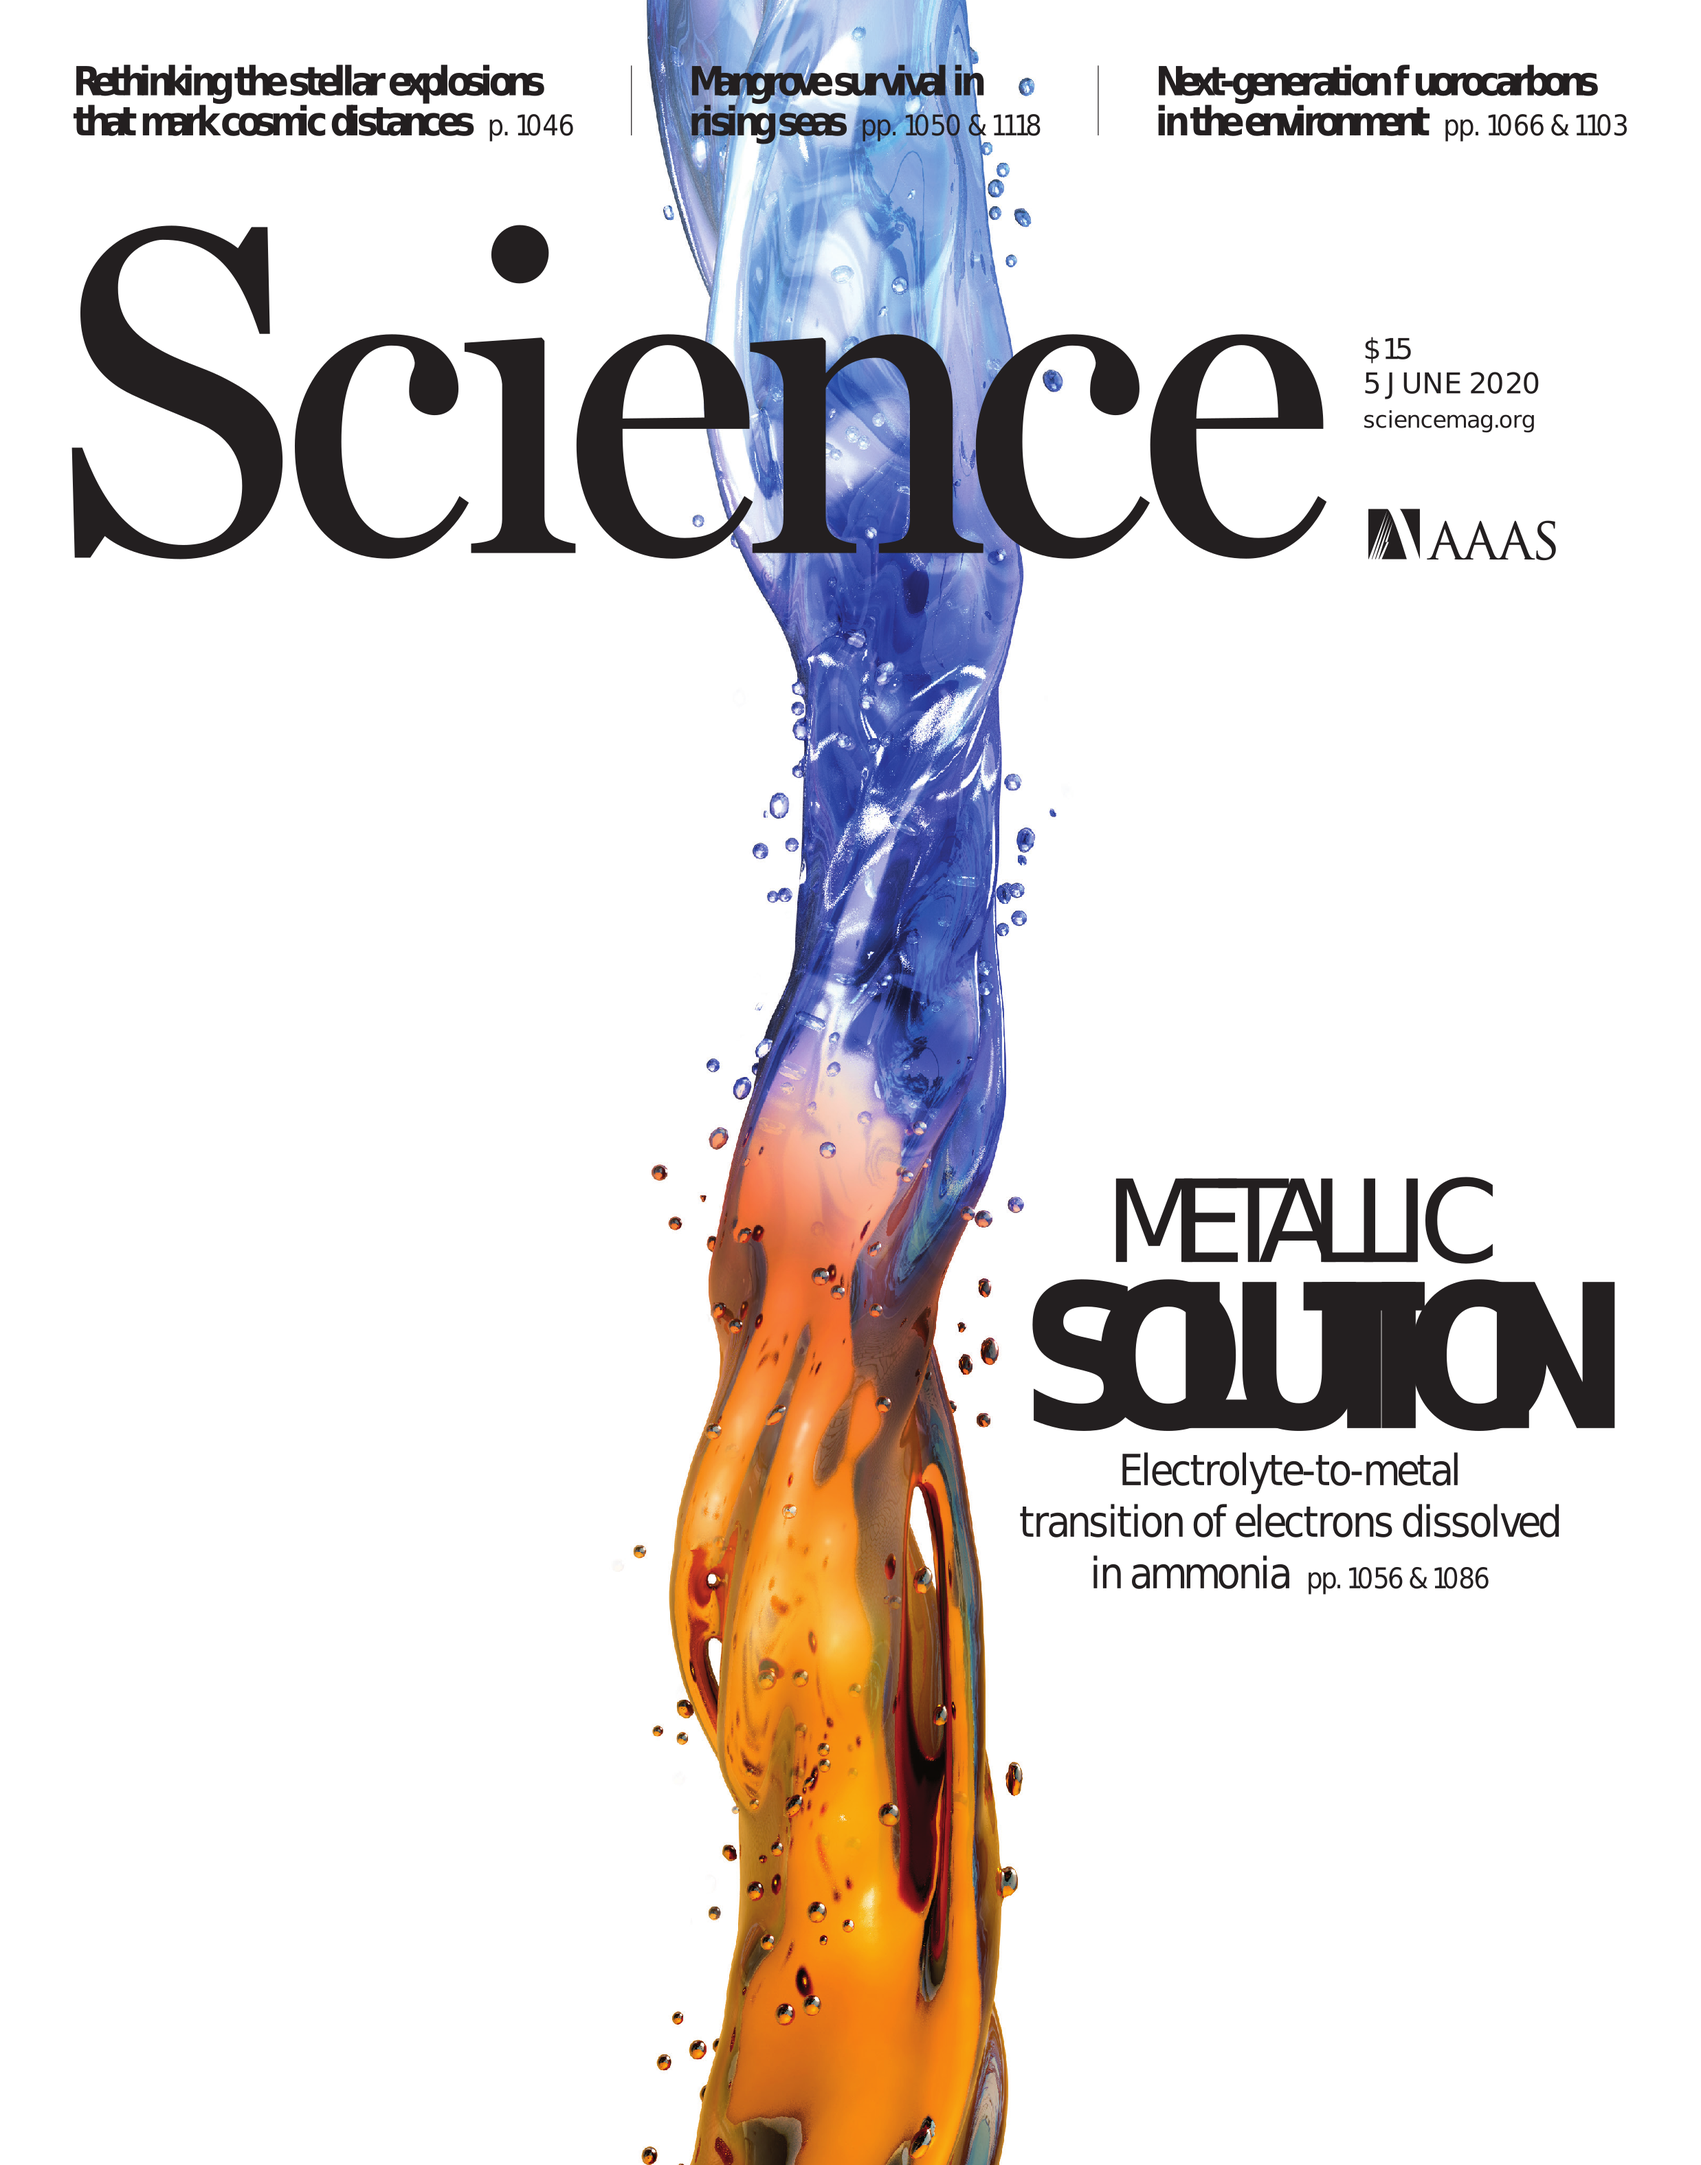
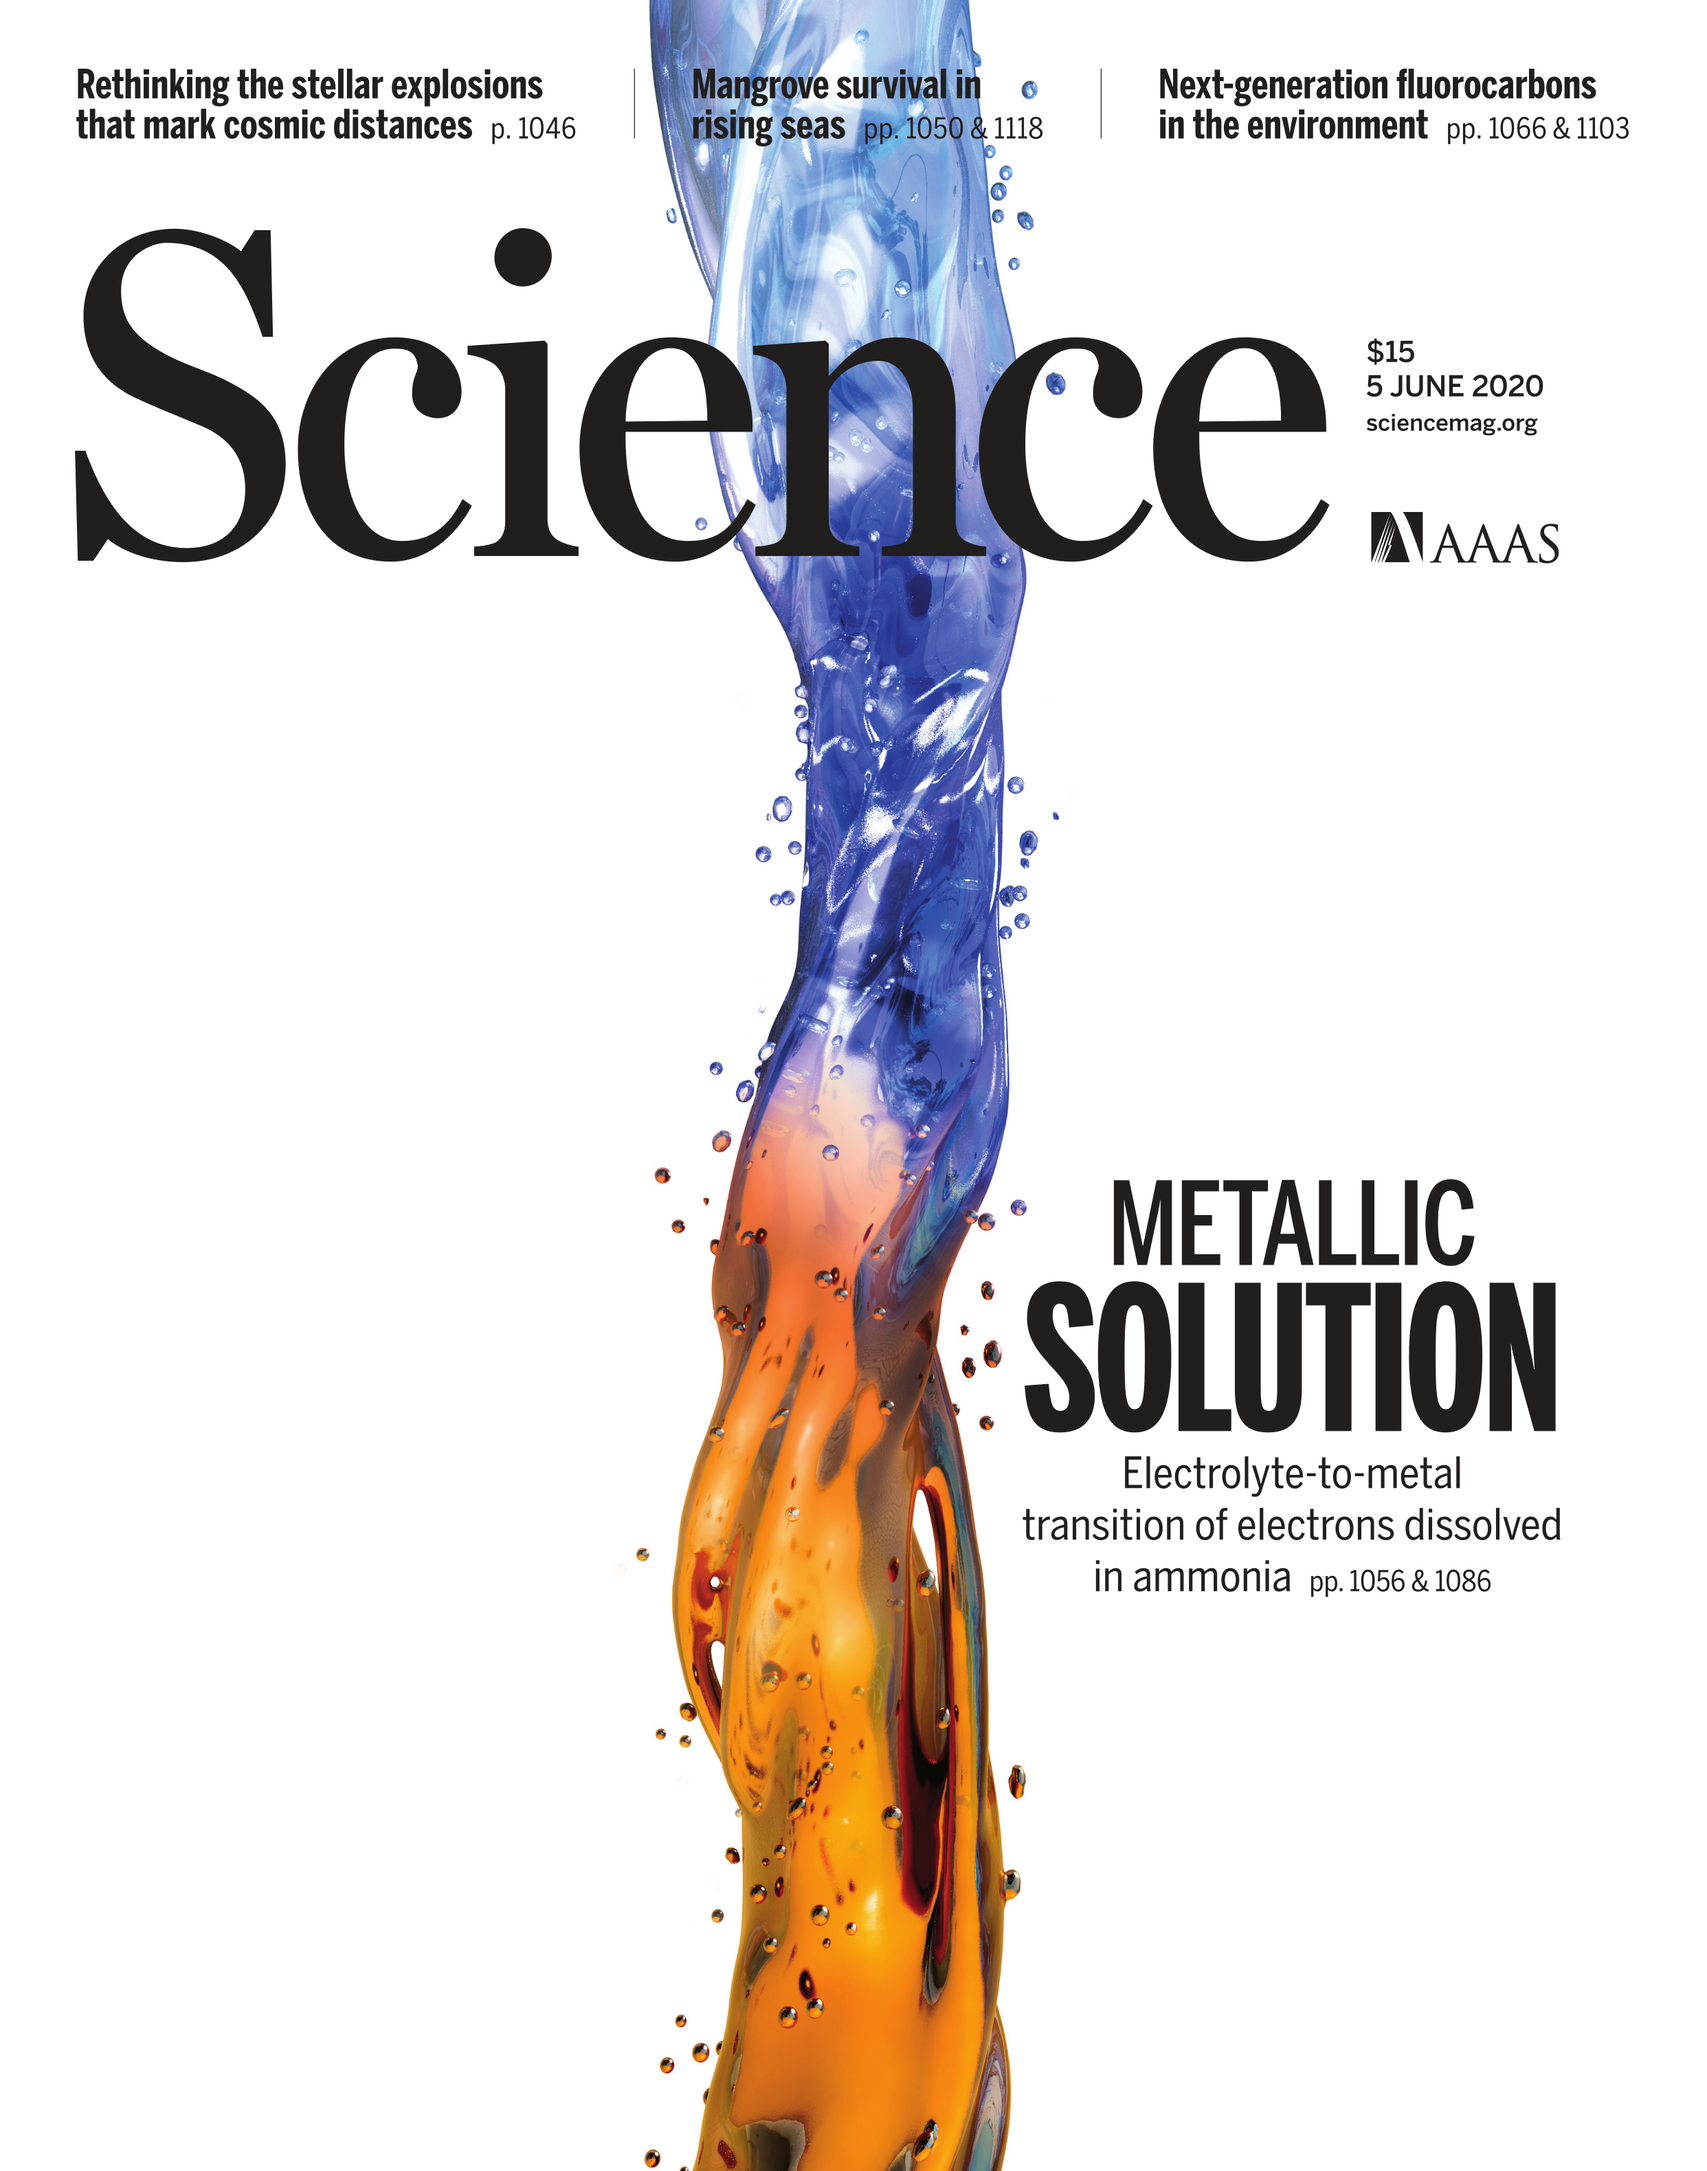
new text

diff --git a/research.html b/research.html
@@ -71,34 +71,52 @@
 	<h2 style='margin-left: 40px; font-family: Cairo;'>What and How?</h2>
 
 	<div class='text'style='margin-left: 40px;'>
-		One does not exaggerate when one says that hydrogen bonding is a crucial ingredient of life.
-		Hydrogen bonds come in many flavors giving rise to the remarkably quirky properties of water,
-		they stand behind the reason why the DNA double helix holds together and why proteins take on so many 
-		different shapes and have so many different functions.
-		At the same time, hydrogen being a very light nucleus results in significant nuclear quantum effects
-		leading to a structrual and dynamic behavior beyond the explanation offered by classical mechanics.
-		We are interested in a theoretical description of various hydrogen bonded systems at the level of atoms
-		including quantum nuclear effects.
-		Our methodology is rooted in molecular dynamics simulations&mdash;a numerical treatment of equations of motion
-		due to a system Hamiltonian resulting in a prediction of molecular behavior in the form of a trajectory through time.
-		Specifically, we approach intermolecular interactions by <i>ab initio</i> methods and include the crucial quantum
-		nuclear effects by mapping the quantum system onto a classical ring polymer abstraction through the Feynman path
-		integral formalism.
-		Such accuracy is traded off for extreme computational demands and is thus practically limited only to the smallest systems.
-		To overcome the issue, we employ a novel machine learning approach and let neural networks to do the hard work
-		for a fraction of the original cost.
+		One does not exaggerate much when one says that hydrogen bonding is crucial to life.
+		Hydrogen bonds are the culprit behind the fact that water is liquid at room temperature and that
+		biopolymers such as proteins or DNA are so structurally rich to make up a functional living 
+		organism.
+		Our research, located just between physical chemistry, theoretical physics and computational
+		science, aims at a description of structure and dynamics of various hydrogen bonded systems,
+		ranging from the most common ones such as liquid water to ones that are more exotic, at a
+		molecular level.
+		To this end, we employ a theoretical method called molecular dynamics simulation where the studied 
+		system is computationally propagated through time to obtain information on molecular properties.
+		In our work, we would typically obtain potentials that govern the behavior of molecular systems 
+		from quantum electronic structure: this is called <i>ab initio</i> molecular dynamics. While this
+		is a very accurate way how to treat molecular interactions, its inherent complexity can lead to 
+		a high computational cost. 
+		In this direction, we recently started exploring the methodology and applications of machine learning 
+		to make this task a little easier.
+		In addition to quantum electrons, in our research we address nuclear quantum effects&mdash;a deviation
+		of molecular properties from classical expectations due to the quantum nature of nuclei&mdash;
+		through the imaginary time path integral formalism.
 	</div>
 
 	<h2 style='margin-left: 40px; font-family: Cairo;'>Solvated Electrons and Their Applications</h2>
 
         <div class='text'style='margin-left: 40px;'>
-		Lorem ipsum - some text about solvated electrons
+		Liquid ammonia is very similar to liquid water in many aspects. One point where they significantly
+		differ is their reaction with alkali metals. 
+		It is well known that alkali metals tend to explode
+		on touch with water. 
+		This is due to the liberation of so-called solvated electrons from the alkali
+		metal that react violently with water. 
+		In ammonia solvated electrons are formed as well, however, their
+		reaction with the solvent is slow and they form a beautifully blue solution rather than an explosion.
+		Solvated electrons in liquid ammonia can therefore be used to do meaningful chemistry with the most famous
+		example being the Birch reduction of aromatic compounds. 
+		Here we explore the chemistry/physics of solvated electrons and what happens when they meet and aromatic
+		compound such as benzene.
         </div>
 
 	<h2 style='margin-left: 40px; font-family: Cairo;'>Exotic hydrogen bonds</h2>
 
         <div class='text'style='margin-left: 40px;'>
-		Lorem ipsum - some text about pi-HB
+		Benzene is interesing even without electrons attached to it. 
+		Curiously enough, it dissolves rather well in liquid ammonia as well as water, despite being a 
+		non-polar hydrocarbon. 
+		We suspect that this has to do a lot with the formation of &pi;-hydrogen bonds in such solution.
+		This is a very non-typical hydrogen bond between a water molecule and the benzene's &pi; electrons.
         </div>
 
 	<h2 style='margin-left: 40px; font-family: Cairo;'>Machine Learning in Molecular Dynamics</h2>

diff --git a/contact.html b/contact.html
@@ -1,7 +1,7 @@
 <!DOCTYPE html>
 <html lang="en">
 <head>
-<title>KRYSTOF BREZINA</title>
+<title>Contact</title>
 <meta charset="UTF-8">
 <meta name="viewport" content="width=device-width, initial-scale=1">
 <head>
@@ -30,6 +30,7 @@
 		}
 		h2   {	font-family: 'Cairo';
 			font-size: 40px;
+			font-weight: lighter;
 			color: white;
 		}
 		li   {	display: inline;
@@ -75,7 +76,11 @@
 		.fa-instagram {
   			background: black;
   			color: white;
-		}
+		}  
+		.fa-twitter {
+  			background: black;
+  			color: white;
+		}  
 		.fa-github {
 			background: black;
 			color: white;
@@ -97,10 +102,20 @@
                 <li><a href="./publications.html">Publications</a></li>
                 <li><a href="./contact.html">Contact</a></li>
 	</ul>
+	
+        <h2 style='margin-left: 40px; font-family: Cairo;'>Contact information</h2>
+
+        <div class='text'style='margin-left: 40px'>
+		Electronic mail: krystof.brezina@gmail.com
+		<br>
+		Office address: Ke Karlovu 5, 121 16 Nove Mesto, Prague, Czech Republic
+		<br>
+        </div>
 
 	<div style='text-align: center; position: absolute; bottom: 5px; width: 100%;'>
 		<a href="https://github.com/krystofbrezina/" class="fa fa-github"></a>
 		<a href="https://www.linkedin.com/in/kry%C5%A1tof-b%C5%99ezina-b405ab198/" class="fa fa-linkedin"></a>
+		<a href="https://twitter.com/krystofbrezina" class="fa fa-twitter"></a>
 		<a href="https://www.instagram.com/krystof.brezina/" class="fa fa-instagram"></a>
 		<a href="https://www.instagram.com/krystof.brezina/" class="fa fa-facebook"></a>
 	</div>

diff --git a/newsletter.html b/newsletter.html
@@ -77,12 +77,23 @@
 
 	<h3 style='margin-left: 40px; font-family: Cairo;'>June 5, 2020</h3>
 
-	<div class='text'style='margin-left: 40px;'>
+	<div class='text'style='margin-left: 40px'>
 		Our solvated electron research has been press released in Science, including an artist's impression 
 		of our observations on the cover!
+		<p>
+		<img class='center' src='./images/Cover.png' width='50%' style='position: relative; margin-left: 80 px'></img>
+		</p>
 	</div>
 
-	<img class='center' src='Cover.png' width='20%' style='position: relative; margin-left: 80 px'></img>
+
+        <h3 style='margin-left: 40px; font-family: Cairo;'>June 2, 2020</h3>
+	<div class='text'style='margin-left: 40px'>
+		"The more the merrier" could be the motto of our new work on committee neural network potentials,
+		now preprinted on arXiv. We show that not one, but a committee of eight neural network potentials
+		is useful for molecular dynamics simulation not only as an accurate fit to a particular AIMD simulation,
+		but also as a means of expanding to different thermodynamic state points through biasing the
+		committee disagreement.
+	</div>
 
 	<h3 style='margin-left: 40px; font-family: Cairo;'>April 15, 2020</h3>
 

diff --git a/publications.html b/publications.html
@@ -81,6 +81,22 @@
 			<i>Science</i>, 2020
 		</li>
 		<br>
+		<li class='text'>
+                    	Schran C., Brezina K., Marsalek O.    
+                        <br>
+                        <b>Committee neural network potential control generalization errors and enable active learning</b>
+                        <br>
+                        <i>arXiv preprint</i>, 2020
+                </li>
+		<br>
+		<li class='text'>
+                    	Brezina K., Jungwirth P., Marsalek O.    
+                        <br>
+                        <b>The benzene radical anion in the context of the Birch reduction: when solvation is the key</b>
+                        <br>
+                        <i>arXiv preprint</i>, 2020
+                </li>
+		<br>
 		<li class='text' style='margin: 50 px'>
 			Buttersack T., Mason P. E., McMullen R. S., Martinek T., Brezina K., Hein D., Ali H., Kolbeck C., 
 			Schewe H. C., Malerz S., Winter B., Seidel R., Marsalek O., Jungwirth P., Bradforth S. E.
